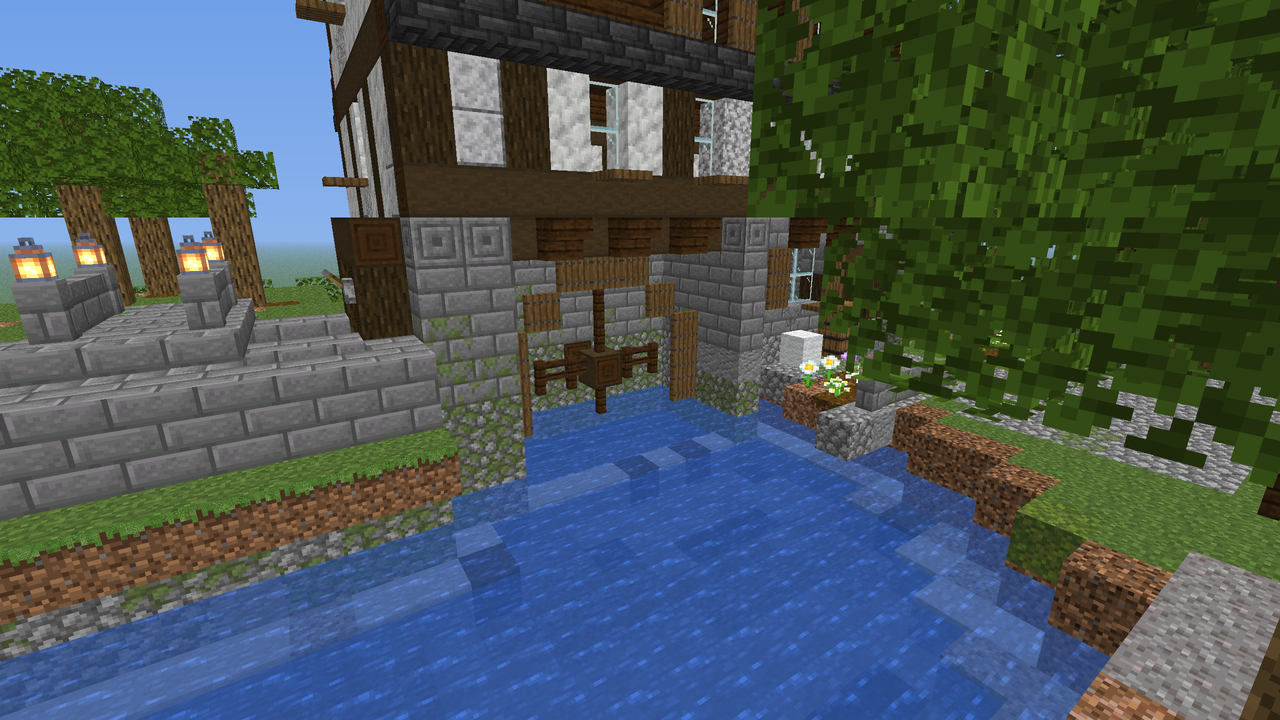
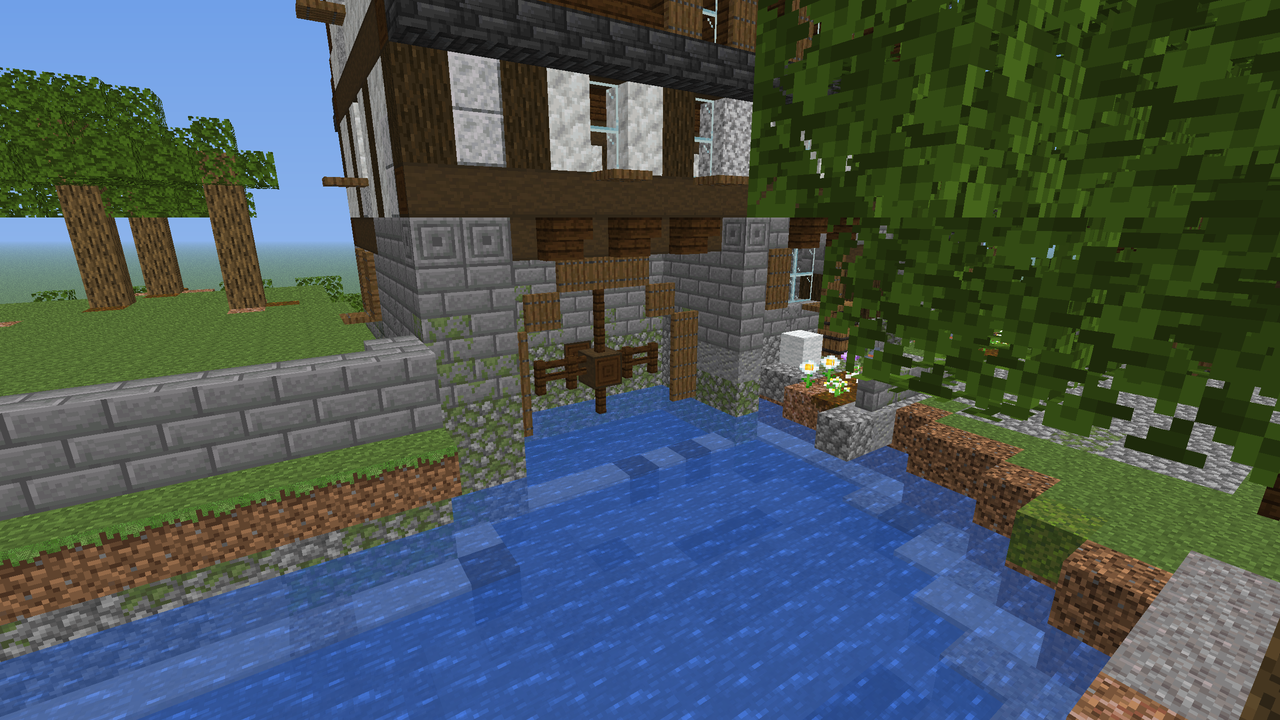
Mill: remove the sluice tunnel, beam box and bridge
The leat tunnel, iron bars, beam over the water and stone-brick coping are gone; the wheel pit takes water from the pond.

Changed region(s): [[0.0, 0.3056, 0.3438, 0.55]]

diff --git a/design/scripts/house_mill.py b/design/scripts/house_mill.py
@@ -276,19 +276,6 @@ def rest(b: Build, roof: dict, slot: dict, pond: set) -> dict:
             put(X0, y, 19, lg(BEAM, "y"))
     put(23, 2, 14, B.wall_sign("spruce", "north"))
 
-    # ---- sluice tunnel through the east pier, channel, pond B, gate, bridge
-    put(32, 0, 16, td_gate("west")); put(32, 0, 17, td_gate("west"))
-    put(32, 1, 16, "@iron_bars"); put(32, 1, 17, "@iron_bars")
-    chan = [(x, z) for x in range(33, 45) for z in (16, 17)]
-    water = K.mill_race(b, chan, 0, -1, ramp=BASE, coping="stone_brick", coping_y=2)
-    for z in (15, 18):
-        put(34, 2, z, lg(BEAM, "y")); put(34, 3, z, lg(BEAM, "y"))
-    for z in (15, 16, 17, 18):
-        put(34, 4, z, beam("z"))
-    put(34, 3, 16, "@iron_bars"); put(34, 3, 17, "@iron_bars")
-    put(35, 3, 15, B.lever("wall", "east"))
-    K.stone_bridge(b, 37, 14, 6, axis="z", y_deck=2, width=3, ramp=Ramp(P("stone_bricks"), [(P("mossy_stone_bricks"), .25, None), (P("cracked_stone_bricks"), .1, None)], seed=40),
-                   open_under=frozenset((x, z) for x in range(37, 40) for z in (16, 17)))
 
     # ================= wing (store), in line with the hall, abutting its west gable =================
     WX0, WX1 = ML.WING_X
